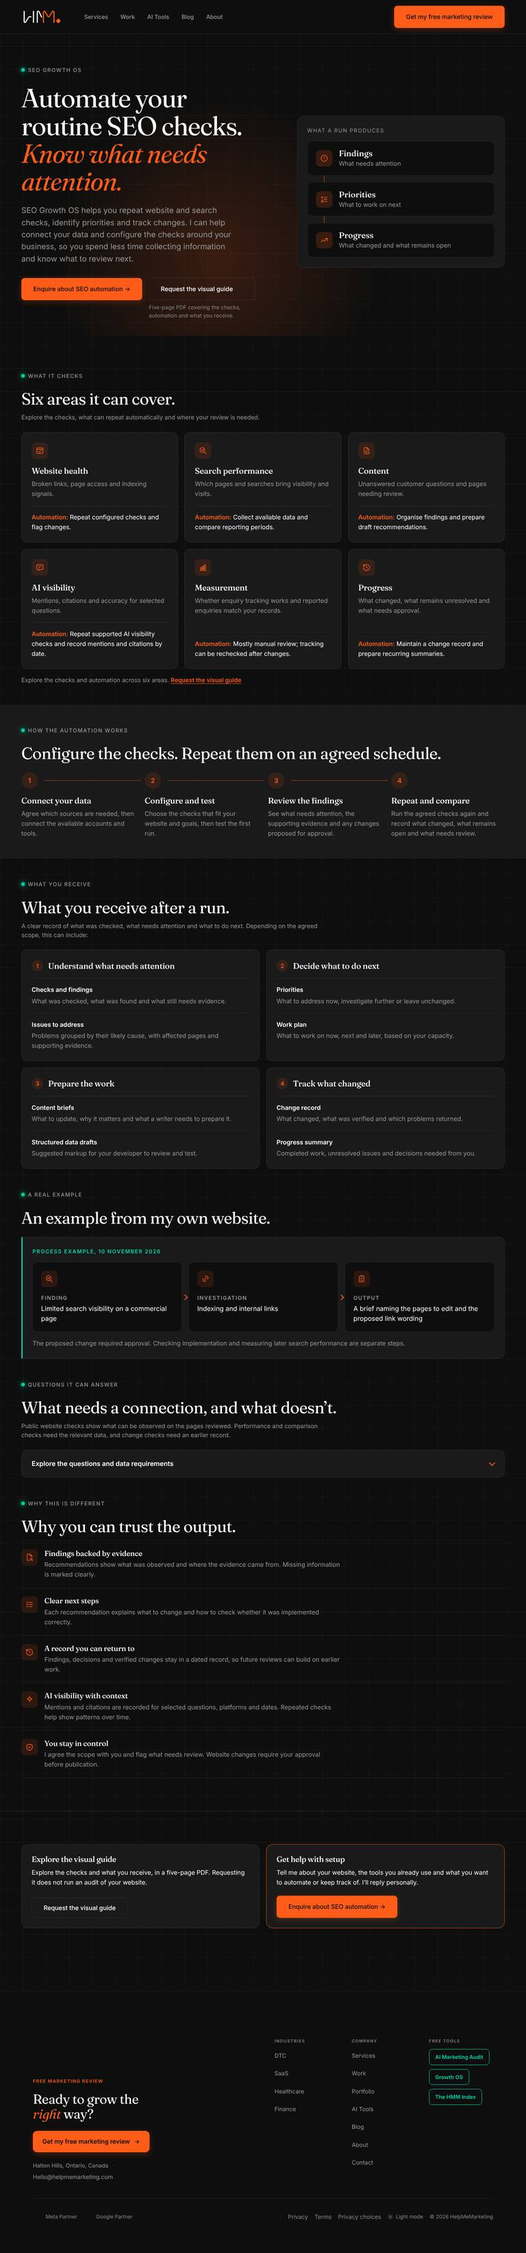
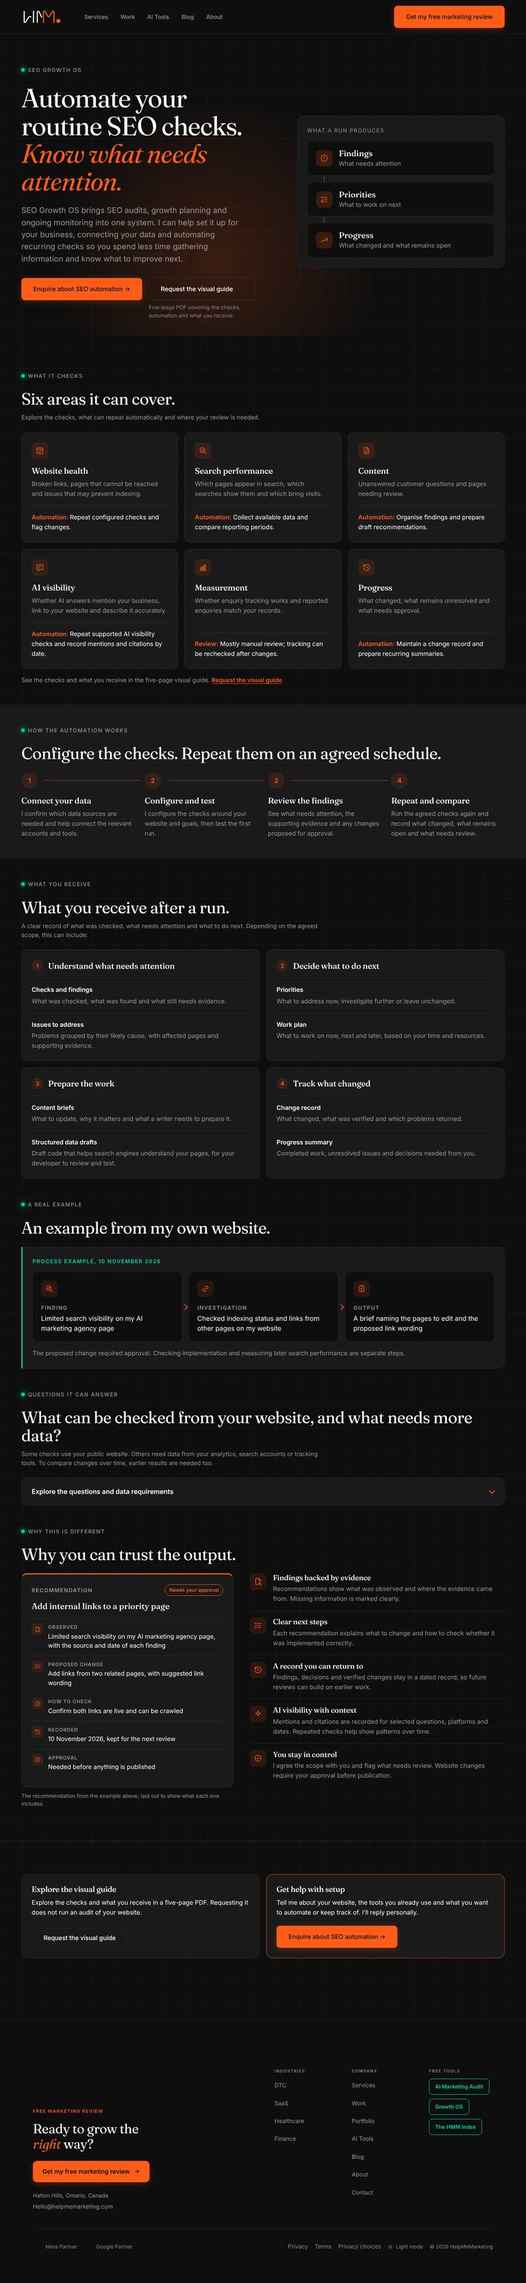
SEO Growth OS page: trust section shows a recommendation record
Two columns: a record card laying out the 10 November example as one
recommendation (observed, proposed change, how to check, recorded,
approval) beside the five approved trust statements as compact rows.
Stacks at 900px. No new claims or data. Screenshots refreshed.

Claude-Session: https://claude.ai/code/session_018Zqg63gvGy44sVUM5NEbiy

diff --git a/seo-growth-os.html b/seo-growth-os.html
@@ -494,12 +494,28 @@ height="0" width="0" class="gtm-ns"></iframe></noscript>
 <section class="sec" id="trust">
   <div class="eyebrow">Why this is different</div>
   <h2>Why you can trust the output.</h2>
-  <div class="gos-trust">
-    <div class="gos-trust-r"><span class="gos-ic" aria-hidden="true"><svg viewBox="0 0 24 24" fill="none" stroke="currentColor" stroke-width="1.75" stroke-linecap="round" stroke-linejoin="round"><path d="M14 3v4a1 1 0 0 0 1 1h4"/><path d="M12 21H7a2 2 0 0 1-2-2V5a2 2 0 0 1 2-2h7l5 5v4"/><circle cx="16.5" cy="17.5" r="2.5"/><path d="M18.5 19.5L21 22"/></svg></span><div><h3>Findings backed by evidence</h3><p>Recommendations show what was observed and where the evidence came from. Missing information is marked clearly.</p></div></div>
-    <div class="gos-trust-r"><span class="gos-ic" aria-hidden="true"><svg viewBox="0 0 24 24" fill="none" stroke="currentColor" stroke-width="1.75" stroke-linecap="round" stroke-linejoin="round"><path d="M3.5 5.5L5 7l2.5-2.5M3.5 11.5L5 13l2.5-2.5M3.5 17.5L5 19l2.5-2.5"/><path d="M11 6h9M11 12h9M11 18h9"/></svg></span><div><h3>Clear next steps</h3><p>Each recommendation explains what to change and how to check whether it was implemented correctly.</p></div></div>
-    <div class="gos-trust-r"><span class="gos-ic" aria-hidden="true"><svg viewBox="0 0 24 24" fill="none" stroke="currentColor" stroke-width="1.75" stroke-linecap="round" stroke-linejoin="round"><path d="M3 12a9 9 0 1 0 3-6.7L3 8"/><path d="M3 3v5h5"/><path d="M12 8v4l3 2"/></svg></span><div><h3>A record you can return to</h3><p>Findings, decisions and verified changes stay in a dated record, so future reviews can build on earlier work.</p></div></div>
-    <div class="gos-trust-r"><span class="gos-ic" aria-hidden="true"><svg viewBox="0 0 24 24" fill="none" stroke="currentColor" stroke-width="1.75" stroke-linecap="round" stroke-linejoin="round"><path d="M12 3l2 5.5 5.5 2-5.5 2L12 18l-2-5.5-5.5-2 5.5-2z"/></svg></span><div><h3>AI visibility with context</h3><p>Mentions and citations are recorded for selected questions, platforms and dates. Repeated checks help show patterns over time.</p></div></div>
-    <div class="gos-trust-r"><span class="gos-ic" aria-hidden="true"><svg viewBox="0 0 24 24" fill="none" stroke="currentColor" stroke-width="1.75" stroke-linecap="round" stroke-linejoin="round"><path d="M12 3l8 3v6c0 5-3.5 8-8 9-4.5-1-8-4-8-9V6z"/><path d="M9 12l2 2 4-4"/></svg></span><div><h3>You stay in control</h3><p>I agree the scope with you and flag what needs review. Website changes require your approval before publication.</p></div></div>
+  <div class="gos-trust-grid">
+    <figure class="gos-rec">
+      <div class="gos-rec-card">
+        <div class="gos-rec-head"><span class="gos-rec-kind">Recommendation</span><span class="gos-rec-pill">Needs your approval</span></div>
+        <p class="gos-rec-title">Add internal links to a priority page</p>
+        <dl class="gos-rec-fields">
+          <div><span class="gos-rec-ic" aria-hidden="true"><svg viewBox="0 0 24 24" fill="none" stroke="currentColor" stroke-width="1.75" stroke-linecap="round" stroke-linejoin="round"><path d="M14 3v4a1 1 0 0 0 1 1h4"/><path d="M12 21H7a2 2 0 0 1-2-2V5a2 2 0 0 1 2-2h7l5 5v4"/><circle cx="16.5" cy="17.5" r="2.5"/><path d="M18.5 19.5L21 22"/></svg></span><dt>Observed</dt><dd>Limited search visibility on my AI marketing agency page, with the source and date of each finding</dd></div>
+          <div><span class="gos-rec-ic" aria-hidden="true"><svg viewBox="0 0 24 24" fill="none" stroke="currentColor" stroke-width="1.75" stroke-linecap="round" stroke-linejoin="round"><path d="M3.5 5.5L5 7l2.5-2.5M3.5 11.5L5 13l2.5-2.5M3.5 17.5L5 19l2.5-2.5"/><path d="M11 6h9M11 12h9M11 18h9"/></svg></span><dt>Proposed change</dt><dd>Add links from two related pages, with suggested link wording</dd></div>
+          <div><span class="gos-rec-ic" aria-hidden="true"><svg viewBox="0 0 24 24" fill="none" stroke="currentColor" stroke-width="1.75" stroke-linecap="round" stroke-linejoin="round"><circle cx="12" cy="12" r="9"/><path d="M8 12l3 3 5-6"/></svg></span><dt>How to check</dt><dd>Confirm both links are live and can be crawled</dd></div>
+          <div><span class="gos-rec-ic" aria-hidden="true"><svg viewBox="0 0 24 24" fill="none" stroke="currentColor" stroke-width="1.75" stroke-linecap="round" stroke-linejoin="round"><path d="M3 12a9 9 0 1 0 3-6.7L3 8"/><path d="M3 3v5h5"/><path d="M12 8v4l3 2"/></svg></span><dt>Recorded</dt><dd>10 November 2026, kept for the next review</dd></div>
+          <div><span class="gos-rec-ic" aria-hidden="true"><svg viewBox="0 0 24 24" fill="none" stroke="currentColor" stroke-width="1.75" stroke-linecap="round" stroke-linejoin="round"><path d="M12 3l8 3v6c0 5-3.5 8-8 9-4.5-1-8-4-8-9V6z"/><path d="M9 12l2 2 4-4"/></svg></span><dt>Approval</dt><dd>Needed before anything is published</dd></div>
+        </dl>
+      </div>
+      <figcaption>The recommendation from the example above, laid out to show what each one includes.</figcaption>
+    </figure>
+    <div class="gos-trust">
+      <div class="gos-trust-r"><span class="gos-ic" aria-hidden="true"><svg viewBox="0 0 24 24" fill="none" stroke="currentColor" stroke-width="1.75" stroke-linecap="round" stroke-linejoin="round"><path d="M14 3v4a1 1 0 0 0 1 1h4"/><path d="M12 21H7a2 2 0 0 1-2-2V5a2 2 0 0 1 2-2h7l5 5v4"/><circle cx="16.5" cy="17.5" r="2.5"/><path d="M18.5 19.5L21 22"/></svg></span><div><h3>Findings backed by evidence</h3><p>Recommendations show what was observed and where the evidence came from. Missing information is marked clearly.</p></div></div>
+      <div class="gos-trust-r"><span class="gos-ic" aria-hidden="true"><svg viewBox="0 0 24 24" fill="none" stroke="currentColor" stroke-width="1.75" stroke-linecap="round" stroke-linejoin="round"><path d="M3.5 5.5L5 7l2.5-2.5M3.5 11.5L5 13l2.5-2.5M3.5 17.5L5 19l2.5-2.5"/><path d="M11 6h9M11 12h9M11 18h9"/></svg></span><div><h3>Clear next steps</h3><p>Each recommendation explains what to change and how to check whether it was implemented correctly.</p></div></div>
+      <div class="gos-trust-r"><span class="gos-ic" aria-hidden="true"><svg viewBox="0 0 24 24" fill="none" stroke="currentColor" stroke-width="1.75" stroke-linecap="round" stroke-linejoin="round"><path d="M3 12a9 9 0 1 0 3-6.7L3 8"/><path d="M3 3v5h5"/><path d="M12 8v4l3 2"/></svg></span><div><h3>A record you can return to</h3><p>Findings, decisions and verified changes stay in a dated record, so future reviews can build on earlier work.</p></div></div>
+      <div class="gos-trust-r"><span class="gos-ic" aria-hidden="true"><svg viewBox="0 0 24 24" fill="none" stroke="currentColor" stroke-width="1.75" stroke-linecap="round" stroke-linejoin="round"><path d="M12 3l2 5.5 5.5 2-5.5 2L12 18l-2-5.5-5.5-2 5.5-2z"/></svg></span><div><h3>AI visibility with context</h3><p>Mentions and citations are recorded for selected questions, platforms and dates. Repeated checks help show patterns over time.</p></div></div>
+      <div class="gos-trust-r"><span class="gos-ic" aria-hidden="true"><svg viewBox="0 0 24 24" fill="none" stroke="currentColor" stroke-width="1.75" stroke-linecap="round" stroke-linejoin="round"><path d="M12 3l8 3v6c0 5-3.5 8-8 9-4.5-1-8-4-8-9V6z"/><path d="M9 12l2 2 4-4"/></svg></span><div><h3>You stay in control</h3><p>I agree the scope with you and flag what needs review. Website changes require your approval before publication.</p></div></div>
+    </div>
   </div>
 </section>
 

diff --git a/styles.css b/styles.css
@@ -6294,11 +6294,24 @@ body.redesign-prototype [data-screen-label="seo-growth-os"] .gos-details > summa
 body.redesign-prototype [data-screen-label="seo-growth-os"] .gos-details-body { padding: 0 24px 24px; }
 body.redesign-prototype [data-screen-label="seo-growth-os"] .gos-details-body .legend { margin-top: 0; }
 body.redesign-prototype [data-screen-label="seo-growth-os"] .gos-mxfoot { justify-content: flex-end; }
-body.redesign-prototype [data-screen-label="seo-growth-os"] .gos-trust { margin-top: 8px; }
-body.redesign-prototype [data-screen-label="seo-growth-os"] .gos-trust-r { display: grid; grid-template-columns: 40px 1fr; gap: 16px; padding: 20px 0; border-top: 1px solid var(--border); }
-body.redesign-prototype [data-screen-label="seo-growth-os"] .gos-trust-r:last-child { border-bottom: 1px solid var(--border); }
+body.redesign-prototype [data-screen-label="seo-growth-os"] .gos-trust-grid { display: grid; grid-template-columns: minmax(0, 5fr) minmax(0, 6fr); gap: 40px; align-items: start; margin-top: 24px; }
+body.redesign-prototype [data-screen-label="seo-growth-os"] .gos-rec { margin: 0; }
+body.redesign-prototype [data-screen-label="seo-growth-os"] .gos-rec-card { padding: 24px; border: 1px solid var(--border); border-top: 3px solid var(--cta); border-radius: 14px; background: var(--bg-elevated); }
+body.redesign-prototype [data-screen-label="seo-growth-os"] .gos-rec-head { display: flex; align-items: center; justify-content: space-between; gap: 12px; }
+body.redesign-prototype [data-screen-label="seo-growth-os"] .gos-rec-kind { font-size: 13px; font-weight: 600; letter-spacing: .12em; text-transform: uppercase; color: var(--text-muted); }
+body.redesign-prototype [data-screen-label="seo-growth-os"] .gos-rec-pill { padding: 4px 10px; border: 1px solid var(--cta); border-radius: 999px; font-size: 12px; font-weight: 600; color: var(--cta-text, var(--cta)); white-space: nowrap; }
+body.redesign-prototype [data-screen-label="seo-growth-os"] .gos-rec-title { margin: 12px 0 0; font-family: 'Fraunces', Georgia, serif; font-size: 20px; font-weight: 500; line-height: 1.3; color: var(--text); }
+body.redesign-prototype [data-screen-label="seo-growth-os"] .gos-rec-fields { margin: 16px 0 0; }
+body.redesign-prototype [data-screen-label="seo-growth-os"] .gos-rec-fields > div { display: grid; grid-template-columns: 28px 1fr; column-gap: 12px; padding: 12px 0; border-top: 1px solid var(--border); }
+body.redesign-prototype [data-screen-label="seo-growth-os"] .gos-rec-ic { grid-row: 1 / 3; display: inline-flex; align-items: center; justify-content: center; width: 28px; height: 28px; border-radius: 8px; background: var(--orange-glow, rgba(255, 92, 26, 0.10)); color: var(--cta); }
+body.redesign-prototype [data-screen-label="seo-growth-os"] .gos-rec-ic svg { width: 15px; height: 15px; }
+body.redesign-prototype [data-screen-label="seo-growth-os"] .gos-rec-fields dt { font-size: 12px; font-weight: 600; letter-spacing: .08em; text-transform: uppercase; color: var(--text-muted); }
+body.redesign-prototype [data-screen-label="seo-growth-os"] .gos-rec-fields dd { margin: 2px 0 0; font-size: 15px; line-height: 1.5; color: var(--text); }
+body.redesign-prototype [data-screen-label="seo-growth-os"] .gos-rec figcaption { margin-top: 12px; font-size: 13px; line-height: 1.5; color: var(--text-muted); }
+body.redesign-prototype [data-screen-label="seo-growth-os"] .gos-trust-r { display: grid; grid-template-columns: 40px 1fr; gap: 16px; padding: 16px 0; border-top: 1px solid var(--border); }
+body.redesign-prototype [data-screen-label="seo-growth-os"] .gos-trust-r:first-child { border-top: 0; padding-top: 0; }
 body.redesign-prototype [data-screen-label="seo-growth-os"] .gos-trust h3 { margin: 0 0 4px; font-size: 18px; }
-body.redesign-prototype [data-screen-label="seo-growth-os"] .gos-trust p { margin: 0; max-width: 720px; font-size: 15px; line-height: 1.6; color: var(--text-muted); }
+body.redesign-prototype [data-screen-label="seo-growth-os"] .gos-trust p { margin: 0; font-size: 15px; line-height: 1.6; color: var(--text-muted); }
 body.redesign-prototype [data-screen-label="seo-growth-os"] .gos-paths .ind2-card { display: flex; flex-direction: column; align-items: flex-start; padding: 24px; }
 body.redesign-prototype [data-screen-label="seo-growth-os"] .gos-paths .ind2-card h3 { margin: 0; }
 body.redesign-prototype [data-screen-label="seo-growth-os"] .gos-paths .ind2-card p { margin: 8px 0 20px; font-size: 15px; line-height: 1.6; color: var(--text-body); }
@@ -6310,6 +6323,7 @@ body.redesign-prototype [data-screen-label="seo-growth-os"] .gos-paths .gos-path
   body.redesign-prototype [data-screen-label="seo-growth-os"] .gos-flow { grid-template-columns: repeat(2, 1fr); }
   body.redesign-prototype [data-screen-label="seo-growth-os"] .gos-flow li:nth-child(2)::after { display: none; }
   body.redesign-prototype [data-screen-label="seo-growth-os"] .gos-run-visual { margin-top: 32px; }
+  body.redesign-prototype [data-screen-label="seo-growth-os"] .gos-trust-grid { grid-template-columns: 1fr; gap: 32px; }
 }
 @media (max-width: 720px) {
   body.redesign-prototype [data-screen-label="seo-growth-os"] .gos-areas, body.redesign-prototype [data-screen-label="seo-growth-os"] .gos-groups, body.redesign-prototype [data-screen-label="seo-growth-os"] .gos-stages { grid-template-columns: 1fr; }
@@ -6323,5 +6337,7 @@ body.redesign-prototype [data-screen-label="seo-growth-os"] .gos-paths .gos-path
   body.redesign-prototype [data-screen-label="seo-growth-os"] .gos-stages li:not(:last-child)::after { top: auto; bottom: -13px; right: auto; left: 28px; transform: rotate(135deg); }
   body.redesign-prototype [data-screen-label="seo-growth-os"] .gos-details > summary { padding: 16px 20px; }
   body.redesign-prototype [data-screen-label="seo-growth-os"] .gos-details-body { padding: 0 16px 16px; }
+  body.redesign-prototype [data-screen-label="seo-growth-os"] .gos-trust-grid { grid-template-columns: 1fr; gap: 32px; }
+  body.redesign-prototype [data-screen-label="seo-growth-os"] .gos-rec-card { padding: 20px; }
   body.redesign-prototype [data-screen-label="seo-growth-os"] .gos-paths { padding-bottom: 48px; }
 }

diff --git a/docs/HMM_Design_System.md b/docs/HMM_Design_System.md
@@ -1653,4 +1653,4 @@ No inline styles, no Review or Rating markup; JSON-LD is BreadcrumbList, Article
 
 **SEO Growth OS page positioning, first pass (2026-11-11, founder review).** `/seo-growth-os` leads with recurring checks and the two paths: H1 "Automate your routine SEO checks. Know what to work on next."; buttons "Request SEO Growth OS" (the email gate) and "Get help with setup" (`/contact#contact-form`; orange by the sitewide contact-button rule); notes "Setup is required. You review and approve changes before anything goes live." and "Free bundle · release 2.2.1 · no card. Supported AI tools and some data sources may have their own costs." The page now matches the installed skill (no aggregate score; six steps): the "Health Score 0–100" output became "Coverage and status", the starter prompt asks for category status and coverage with no overall score, the trust copy lists unmeasured categories as missing evidence, and the Service and WebPage JSON-LD describe six steps, not a seven-stage 500-page programme. "Built in" now reads "included in the bundle; installation and setup required"; the outputs section says results depend on the checks chosen and evidence available; the "sample report is coming" promise was removed until a real redacted report exists; the closing box offers setup help instead of the free marketing review. Title "SEO Growth OS: SEO Automation and Setup | HelpMeMarketing". Open: the installed skill reports release 2.2.2 while the page says 2.2.1 (founder to confirm the bundle version); the reorganisation around the visitor's decisions and a real report example are the next pass.
 
-**SEO Growth OS page: checklist and automation offer (2026-11-11, founder review, supersedes the first-pass note above).** `/seo-growth-os` no longer offers the skills bundle; the skills, prompts, scripts and installation package stay private. Two paths: "Enquire about SEO automation" (primary, `/contact?entry=seo_automation#contact-form`) and "Request the full checklist" (outline button and text buttons with `data-gate-open`, the existing email gate). Page order: hero (H1 "Automate your routine SEO checks. Know what needs attention."); What it checks (`#checks`, six-area `mr-table` matching the checklist's six areas, with examples and what can be automated, `.gos-map`); How the automation works (four `ind2-step`s: connect data, configure checks, review and approve, repeat on a schedule); What you receive (the outputs list, "Phased plan" replaces "30/60/90 Plan"); Questions it can answer (the matrix, columns "Website only" and "With connected data", legend "Website / Connect / Costs"); Why you can trust the output; two path cards (`.gos-paths`); final CTA "See what I check, and what I can automate for you." Removed: the node row, business-type picker, specialist skills stack, starter prompt, the three-column method block and their script. The gate dialog asks for an email and optional consent and sends "the checklist" (button "Send me the checklist"; backend keys `form=growth-os-download`, `product=seo`, Turnstile action and the `growth_os_download` event are unchanged for continuity). The customer download is the SEO Growth OS Visual Guide (founder decision 2026-11-11; the checklist PDF and its generator were retired the same day; cut from nine pages to five later that day, founder brief; tiles shortened and two badges retired the same evening, founder), generated by `docs/growth-os-checklist/gen_visual_guide.py` (edit the content lists there, never the HTML) and rendered by `build_visual_guide.mjs` to `HMM-SEO-Growth-OS-Visual-Guide.pdf`, which warns if any page overflows. Five fixed US Letter pages in HMM colours (warm paper, white cards, Signal Orange accents, Fraunces and Inter, no standalone cover): 1 "Where should you start?" (compact Obsidian intro with the logo, a problem-to-starting-point table, the six areas as an icon grid, the label legend with two rows, Draft + review and Human review, and the one scope note); 2 Website health and search performance, 3 Content and AI visibility, 4 Measurement and progress, each six grouped tiles in two columns and three rows; a tile is its icon and title, any badge, one short description (what is checked, what runs automatically and what a person reviews, in plain sentences; no separate Checks, Automates or Review labels), a thin divider and "You receive:" in orange with one output, body text 11pt, every original check kept; 5 the six-stage flow (stages can span runs), the 10 November 2026 process example, what you receive, what setup needs and the clickable enquiry link (`/contact?entry=seo_automation#contact-form`). Tile badges: "Draft + review" (prepares suggestions for a person to assess) and "Human review" (needs judgment or validation), plus dashed tags "Optional" and "Only where it applies" for conditional tiles. A tile whose only mode was scheduled or around a change carries no badge and goes straight from title to description; "Scheduled check" and "On change" are retired from the guide and its legend (founder, 2026-11-11), and scheduling is described in the tile text instead. Do not add replacement badges. Spacing (founder, 2026-11-11): one scale of 4, 8, 12, 16 and 24px set as tokens in the guide CSS. Every page has the same margins (0.5in top, 0.55in sides, footer 0.35in from the bottom) and content starts 48px from the top. Blocks on a page are 24px apart, a heading sits 12px above its block, grids use 16px gaps, boxes use 16px 20px padding and a 12px radius, table rows use 8px 20px, and inside a tile the title, badge, description and divider are 12px apart. Change the tokens, not individual rules, and keep at least 16px between the last block and the footer. Video is left out because the current images module has no specific video checks; location and service pages follow rule registry G-12 (useful differences, not a uniqueness percentage); the conversion card follows the CRO audit (offer, calls to action, friction). No capability count, no repeated not-an-audit, ranking, score or skill-file disclaimers, and no internal test history. The page, gate ("Request the visual guide", "Where should I send the guide?", "Send me the guide", description "Get the five-page guide to SEO Growth OS, including the checks, automation and what you receive." (was "Explore the checks and automation across six areas, what you receive and where human review is needed." until 2026-11-12); since 2026-11-11 the newsletter checkbox is replaced by the notice `.consent-note` "Requesting the guide also adds you to my occasional SEO notes and updates. Every email has an unsubscribe link.", founder decision) and email name the SEO Growth OS Visual Guide, and the page names no capability count (since 2026-11-12 the line under the area cards is "See the checks and what you receive in the five-page visual guide."). The forms script emails it from Drive (`SEO_CHECKLIST_FILE_ID`, which the founder sets after uploading the PDF); `checklistBlob_()` refuses a placeholder ID, a missing or unshared file and anything whose Drive type or content is not PDF, and a checklist request replies `email: 'sent'` or `'failed'` alongside `saved: 'lead'`, so the dialog shows "Check your inbox" only for `sent` and otherwise says the request is saved and I will send it by hand (the row records the failure reason). New contact entry tags `seo_automation` and `ai_seo_setup` (contact.html and the forms script). `/ai-seo-agency` "SEO automation" cards: "See what it checks" (to `/seo-growth-os#checks`) and "Get help with setup" (`entry=ai_seo_setup`). Also aligned: `/services/seo`, `/ai-tools` card, `/work` (no check count until the inventory is verified; its "free to download" line now names Meta Growth OS only). Copy pass (2026-11-12, founder review): the page tells one story (what you can automate, what gets checked, how setup works, what you receive, a real example, what to do next). The hero note describes the guide ("The visual guide is a five-page PDF covering the checks, automation and what you receive."); the four steps are Connect your data, Configure and test, Review the findings, Repeat and compare (the Service JSON-LD offer catalogue lists the same four); "What you receive after a run" has eight plain cards (Checks and findings, Issues to address, Priorities, Work plan, Content briefs, Structured data drafts, Change record, Progress summary); a new section, `.gos-example` (mint left rule, "Process example, 10 November 2026"), repeats the guide's example with no ranking claim; the questions table words each question as what can be observed, and cells that need a previous run or a specific source say "Needs earlier results" or "Needs relevant data" (`.c.part`, short forms "Earlier run" and "Data source" at 680px and below) instead of a tick; the trust section is five plain statements (evidence, next steps, a dated record, AI visibility with context, you stay in control); the final CTA asks "What SEO work would you like to automate?" with one enquiry button. Visual hierarchy (2026-11-12, founder review, same copy): the hero image is replaced by `.gos-run` ("What a run produces": Findings, Priorities, Progress as three connected cards, no numbers), and the guide note sits under the outline button (`.gos-guide-cta`); the six-area table became six `.gos-area` cards (icon, Fraunces 20 title, examples, divider, "Automation:" line; 3/2/1 columns at desktop, 900 and 720); the four steps are a numbered `.gos-flow` sequence on a full-bleed Warm Ivory `.gos-band` (stacked with a vertical line at 720); the eight outputs sit in four numbered `.gos-group`s (Understand what needs attention, Decide what to do next, Prepare the work, Track what changed); the example is the proof panel with three `.gos-stages` (Finding, Investigation, Output) and the approval sentence; the questions table sits in a native `details.gos-details` ("Explore the questions and data requirements", keyboard accessible, content in the HTML); the trust statements are compact `.gos-trust-r` rows with small icons; the setup path card (`.gos-path-main`) carries an orange border, and the two path cards are the close of the page (the separate final automation band was removed the same day, founder review, so the last choice is guide or setup), with 72px (48 at 720) before the footer. One card system: 24px padding (20 at 720), 14px radius, 16px gaps, 40px icon tiles on `--orange-glow`, 15px body. Copy pass 2 (2026-11-12, founder review, wording only): the hero defines the product ("SEO Growth OS brings SEO audits, growth planning and ongoing monitoring into one system. I can help set it up for your business, ..."), and the meta, social and Service JSON-LD descriptions follow it; the Measurement card's second line is labelled "Review:" not "Automation:"; steps 1 and 2 say I do the setup; the example names the page (my AI marketing agency page; the 10 November links were commit `82d3f6b`, from `/ai-seo-agency` and `/services/seo`); the questions section is "What can be checked from your website, and what needs more data?" with legend labels matching the column headings. `/contact?entry=seo_automation` relabels the need field "Tell me what you would like to automate" with an automation example in its placeholder. Release order: upload the visual guide PDF, paste its ID, redeploy the forms script, then merge the page.
+**SEO Growth OS page: checklist and automation offer (2026-11-11, founder review, supersedes the first-pass note above).** `/seo-growth-os` no longer offers the skills bundle; the skills, prompts, scripts and installation package stay private. Two paths: "Enquire about SEO automation" (primary, `/contact?entry=seo_automation#contact-form`) and "Request the full checklist" (outline button and text buttons with `data-gate-open`, the existing email gate). Page order: hero (H1 "Automate your routine SEO checks. Know what needs attention."); What it checks (`#checks`, six-area `mr-table` matching the checklist's six areas, with examples and what can be automated, `.gos-map`); How the automation works (four `ind2-step`s: connect data, configure checks, review and approve, repeat on a schedule); What you receive (the outputs list, "Phased plan" replaces "30/60/90 Plan"); Questions it can answer (the matrix, columns "Website only" and "With connected data", legend "Website / Connect / Costs"); Why you can trust the output; two path cards (`.gos-paths`); final CTA "See what I check, and what I can automate for you." Removed: the node row, business-type picker, specialist skills stack, starter prompt, the three-column method block and their script. The gate dialog asks for an email and optional consent and sends "the checklist" (button "Send me the checklist"; backend keys `form=growth-os-download`, `product=seo`, Turnstile action and the `growth_os_download` event are unchanged for continuity). The customer download is the SEO Growth OS Visual Guide (founder decision 2026-11-11; the checklist PDF and its generator were retired the same day; cut from nine pages to five later that day, founder brief; tiles shortened and two badges retired the same evening, founder), generated by `docs/growth-os-checklist/gen_visual_guide.py` (edit the content lists there, never the HTML) and rendered by `build_visual_guide.mjs` to `HMM-SEO-Growth-OS-Visual-Guide.pdf`, which warns if any page overflows. Five fixed US Letter pages in HMM colours (warm paper, white cards, Signal Orange accents, Fraunces and Inter, no standalone cover): 1 "Where should you start?" (compact Obsidian intro with the logo, a problem-to-starting-point table, the six areas as an icon grid, the label legend with two rows, Draft + review and Human review, and the one scope note); 2 Website health and search performance, 3 Content and AI visibility, 4 Measurement and progress, each six grouped tiles in two columns and three rows; a tile is its icon and title, any badge, one short description (what is checked, what runs automatically and what a person reviews, in plain sentences; no separate Checks, Automates or Review labels), a thin divider and "You receive:" in orange with one output, body text 11pt, every original check kept; 5 the six-stage flow (stages can span runs), the 10 November 2026 process example, what you receive, what setup needs and the clickable enquiry link (`/contact?entry=seo_automation#contact-form`). Tile badges: "Draft + review" (prepares suggestions for a person to assess) and "Human review" (needs judgment or validation), plus dashed tags "Optional" and "Only where it applies" for conditional tiles. A tile whose only mode was scheduled or around a change carries no badge and goes straight from title to description; "Scheduled check" and "On change" are retired from the guide and its legend (founder, 2026-11-11), and scheduling is described in the tile text instead. Do not add replacement badges. Spacing (founder, 2026-11-11): one scale of 4, 8, 12, 16 and 24px set as tokens in the guide CSS. Every page has the same margins (0.5in top, 0.55in sides, footer 0.35in from the bottom) and content starts 48px from the top. Blocks on a page are 24px apart, a heading sits 12px above its block, grids use 16px gaps, boxes use 16px 20px padding and a 12px radius, table rows use 8px 20px, and inside a tile the title, badge, description and divider are 12px apart. Change the tokens, not individual rules, and keep at least 16px between the last block and the footer. Video is left out because the current images module has no specific video checks; location and service pages follow rule registry G-12 (useful differences, not a uniqueness percentage); the conversion card follows the CRO audit (offer, calls to action, friction). No capability count, no repeated not-an-audit, ranking, score or skill-file disclaimers, and no internal test history. The page, gate ("Request the visual guide", "Where should I send the guide?", "Send me the guide", description "Get the five-page guide to SEO Growth OS, including the checks, automation and what you receive." (was "Explore the checks and automation across six areas, what you receive and where human review is needed." until 2026-11-12); since 2026-11-11 the newsletter checkbox is replaced by the notice `.consent-note` "Requesting the guide also adds you to my occasional SEO notes and updates. Every email has an unsubscribe link.", founder decision) and email name the SEO Growth OS Visual Guide, and the page names no capability count (since 2026-11-12 the line under the area cards is "See the checks and what you receive in the five-page visual guide."). The forms script emails it from Drive (`SEO_CHECKLIST_FILE_ID`, which the founder sets after uploading the PDF); `checklistBlob_()` refuses a placeholder ID, a missing or unshared file and anything whose Drive type or content is not PDF, and a checklist request replies `email: 'sent'` or `'failed'` alongside `saved: 'lead'`, so the dialog shows "Check your inbox" only for `sent` and otherwise says the request is saved and I will send it by hand (the row records the failure reason). New contact entry tags `seo_automation` and `ai_seo_setup` (contact.html and the forms script). `/ai-seo-agency` "SEO automation" cards: "See what it checks" (to `/seo-growth-os#checks`) and "Get help with setup" (`entry=ai_seo_setup`). Also aligned: `/services/seo`, `/ai-tools` card, `/work` (no check count until the inventory is verified; its "free to download" line now names Meta Growth OS only). Copy pass (2026-11-12, founder review): the page tells one story (what you can automate, what gets checked, how setup works, what you receive, a real example, what to do next). The hero note describes the guide ("The visual guide is a five-page PDF covering the checks, automation and what you receive."); the four steps are Connect your data, Configure and test, Review the findings, Repeat and compare (the Service JSON-LD offer catalogue lists the same four); "What you receive after a run" has eight plain cards (Checks and findings, Issues to address, Priorities, Work plan, Content briefs, Structured data drafts, Change record, Progress summary); a new section, `.gos-example` (mint left rule, "Process example, 10 November 2026"), repeats the guide's example with no ranking claim; the questions table words each question as what can be observed, and cells that need a previous run or a specific source say "Needs earlier results" or "Needs relevant data" (`.c.part`, short forms "Earlier run" and "Data source" at 680px and below) instead of a tick; the trust section is five plain statements (evidence, next steps, a dated record, AI visibility with context, you stay in control); the final CTA asks "What SEO work would you like to automate?" with one enquiry button. Visual hierarchy (2026-11-12, founder review, same copy): the hero image is replaced by `.gos-run` ("What a run produces": Findings, Priorities, Progress as three connected cards, no numbers), and the guide note sits under the outline button (`.gos-guide-cta`); the six-area table became six `.gos-area` cards (icon, Fraunces 20 title, examples, divider, "Automation:" line; 3/2/1 columns at desktop, 900 and 720); the four steps are a numbered `.gos-flow` sequence on a full-bleed Warm Ivory `.gos-band` (stacked with a vertical line at 720); the eight outputs sit in four numbered `.gos-group`s (Understand what needs attention, Decide what to do next, Prepare the work, Track what changed); the example is the proof panel with three `.gos-stages` (Finding, Investigation, Output) and the approval sentence; the questions table sits in a native `details.gos-details` ("Explore the questions and data requirements", keyboard accessible, content in the HTML); the trust section is two columns (stacked at 900): a `.gos-rec` record card (orange top rule, "Recommendation" label, a "Needs your approval" pill, the title "Add internal links to a priority page" and five fields with small icons: Observed, Proposed change, How to check, Recorded, Approval, all taken from the 10 November example, captioned as that example laid out, no invented data) beside the five statements as compact `.gos-trust-r` rows with icons (2026-11-12, founder request); the setup path card (`.gos-path-main`) carries an orange border, and the two path cards are the close of the page (the separate final automation band was removed the same day, founder review, so the last choice is guide or setup), with 72px (48 at 720) before the footer. One card system: 24px padding (20 at 720), 14px radius, 16px gaps, 40px icon tiles on `--orange-glow`, 15px body. Copy pass 2 (2026-11-12, founder review, wording only): the hero defines the product ("SEO Growth OS brings SEO audits, growth planning and ongoing monitoring into one system. I can help set it up for your business, ..."), and the meta, social and Service JSON-LD descriptions follow it; the Measurement card's second line is labelled "Review:" not "Automation:"; steps 1 and 2 say I do the setup; the example names the page (my AI marketing agency page; the 10 November links were commit `82d3f6b`, from `/ai-seo-agency` and `/services/seo`); the questions section is "What can be checked from your website, and what needs more data?" with legend labels matching the column headings. `/contact?entry=seo_automation` relabels the need field "Tell me what you would like to automate" with an automation example in its placeholder. Release order: upload the visual guide PDF, paste its ID, redeploy the forms script, then merge the page.
